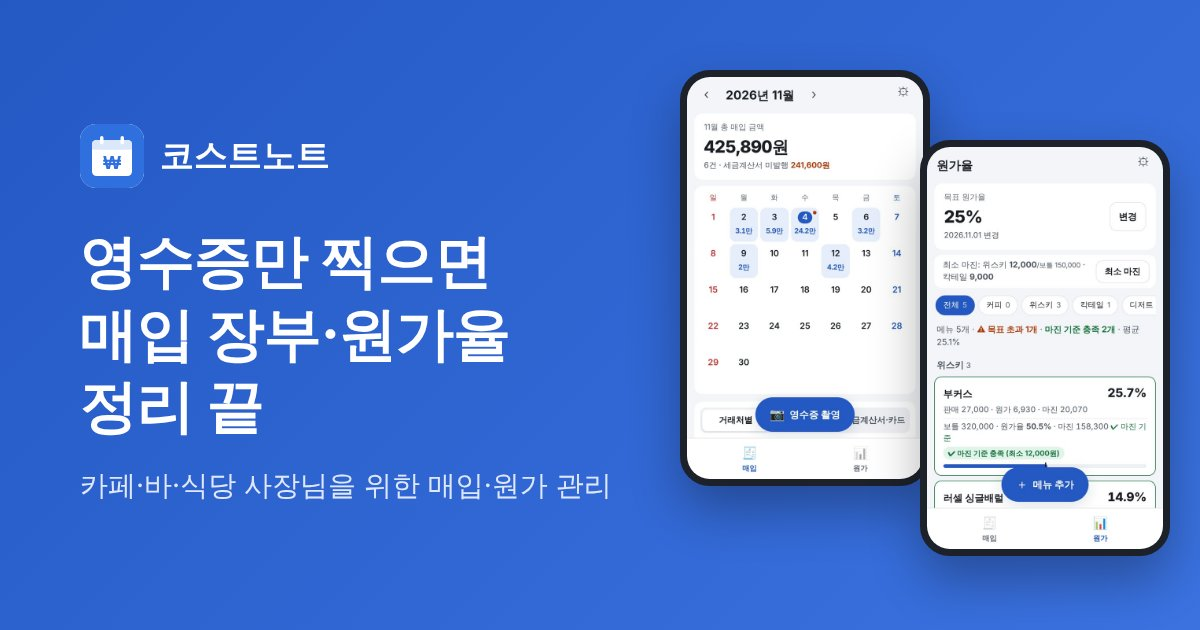
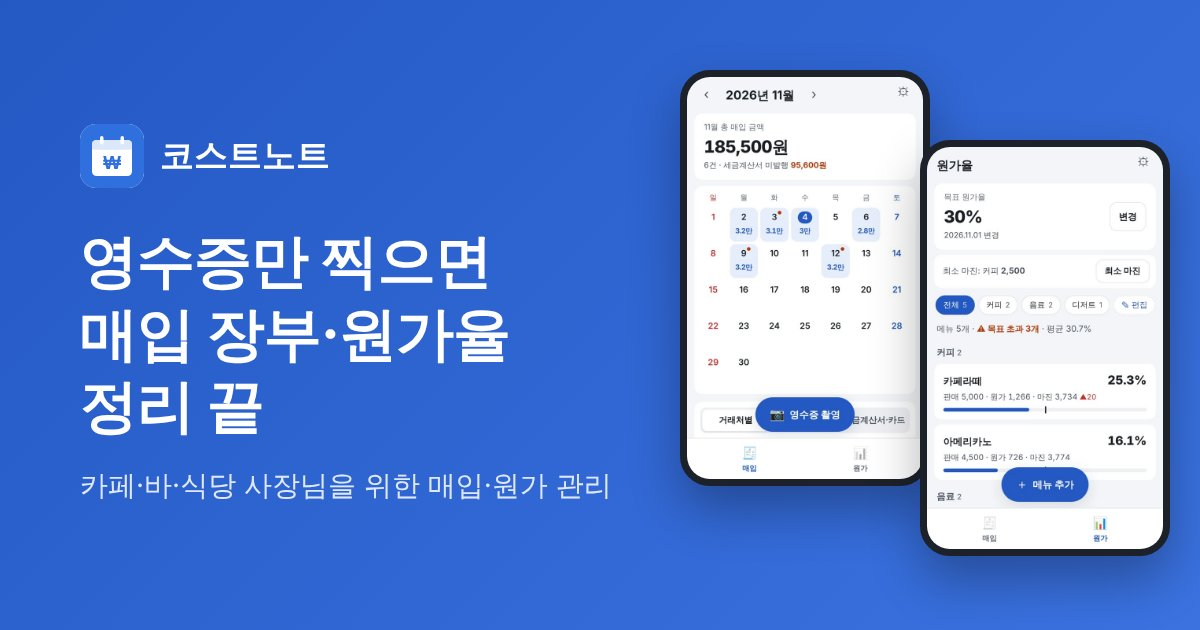
소개 페이지 화면·공유 이미지를 카페 예시 데이터로 교체
Claude-Session: https://claude.ai/code/session_01TWAGYEUvZYcR3ErBTD9nvQ

diff --git a/landing/index.html b/landing/index.html
@@ -7,7 +7,7 @@
   <meta name="description" content="영수증·거래명세서를 찍으면 매입 장부가 자동으로 정리되고, 메뉴 원가율과 마진까지 바로 보여 주는 사장님용 웹앱.">
   <meta property="og:title" content="코스트노트 — 매입·원가 관리">
   <meta property="og:description" content="영수증 찍으면 매입 장부 정리 끝. 메뉴 원가율·마진까지 한눈에.">
-  <meta property="og:image" content="https://costnote.co.kr/assets/og.jpg">
+  <meta property="og:image" content="https://costnote.co.kr/assets/og.jpg?v=2">
   <meta property="og:image:width" content="1200">
   <meta property="og:image:height" content="630">
   <meta property="og:image:alt" content="코스트노트 — 영수증만 찍으면 매입 장부·원가율 정리 끝">
@@ -130,7 +130,7 @@
 
       <section aria-labelledby="cost-title">
         <div class="split">
-          <div class="phone"><img src="/assets/shot-menu.jpg" alt="메뉴 원가 화면: 잔 판매가와 보틀 판매가의 원가율·마진, 참고 가격" width="600" height="1022" loading="lazy"></div>
+          <div class="phone"><img src="/assets/shot-menu.jpg" alt="메뉴 원가 화면: 판매가·원가·원가율·마진과 재료별 원가" width="600" height="1022" loading="lazy"></div>
           <div>
             <h2 id="cost-title">“이 메뉴, 남는 게 있나?”<br>바로 답이 나와요</h2>
             <p class="sub">매입가가 바뀌면 메뉴 원가율도 저절로 따라 바뀌어요.</p>
